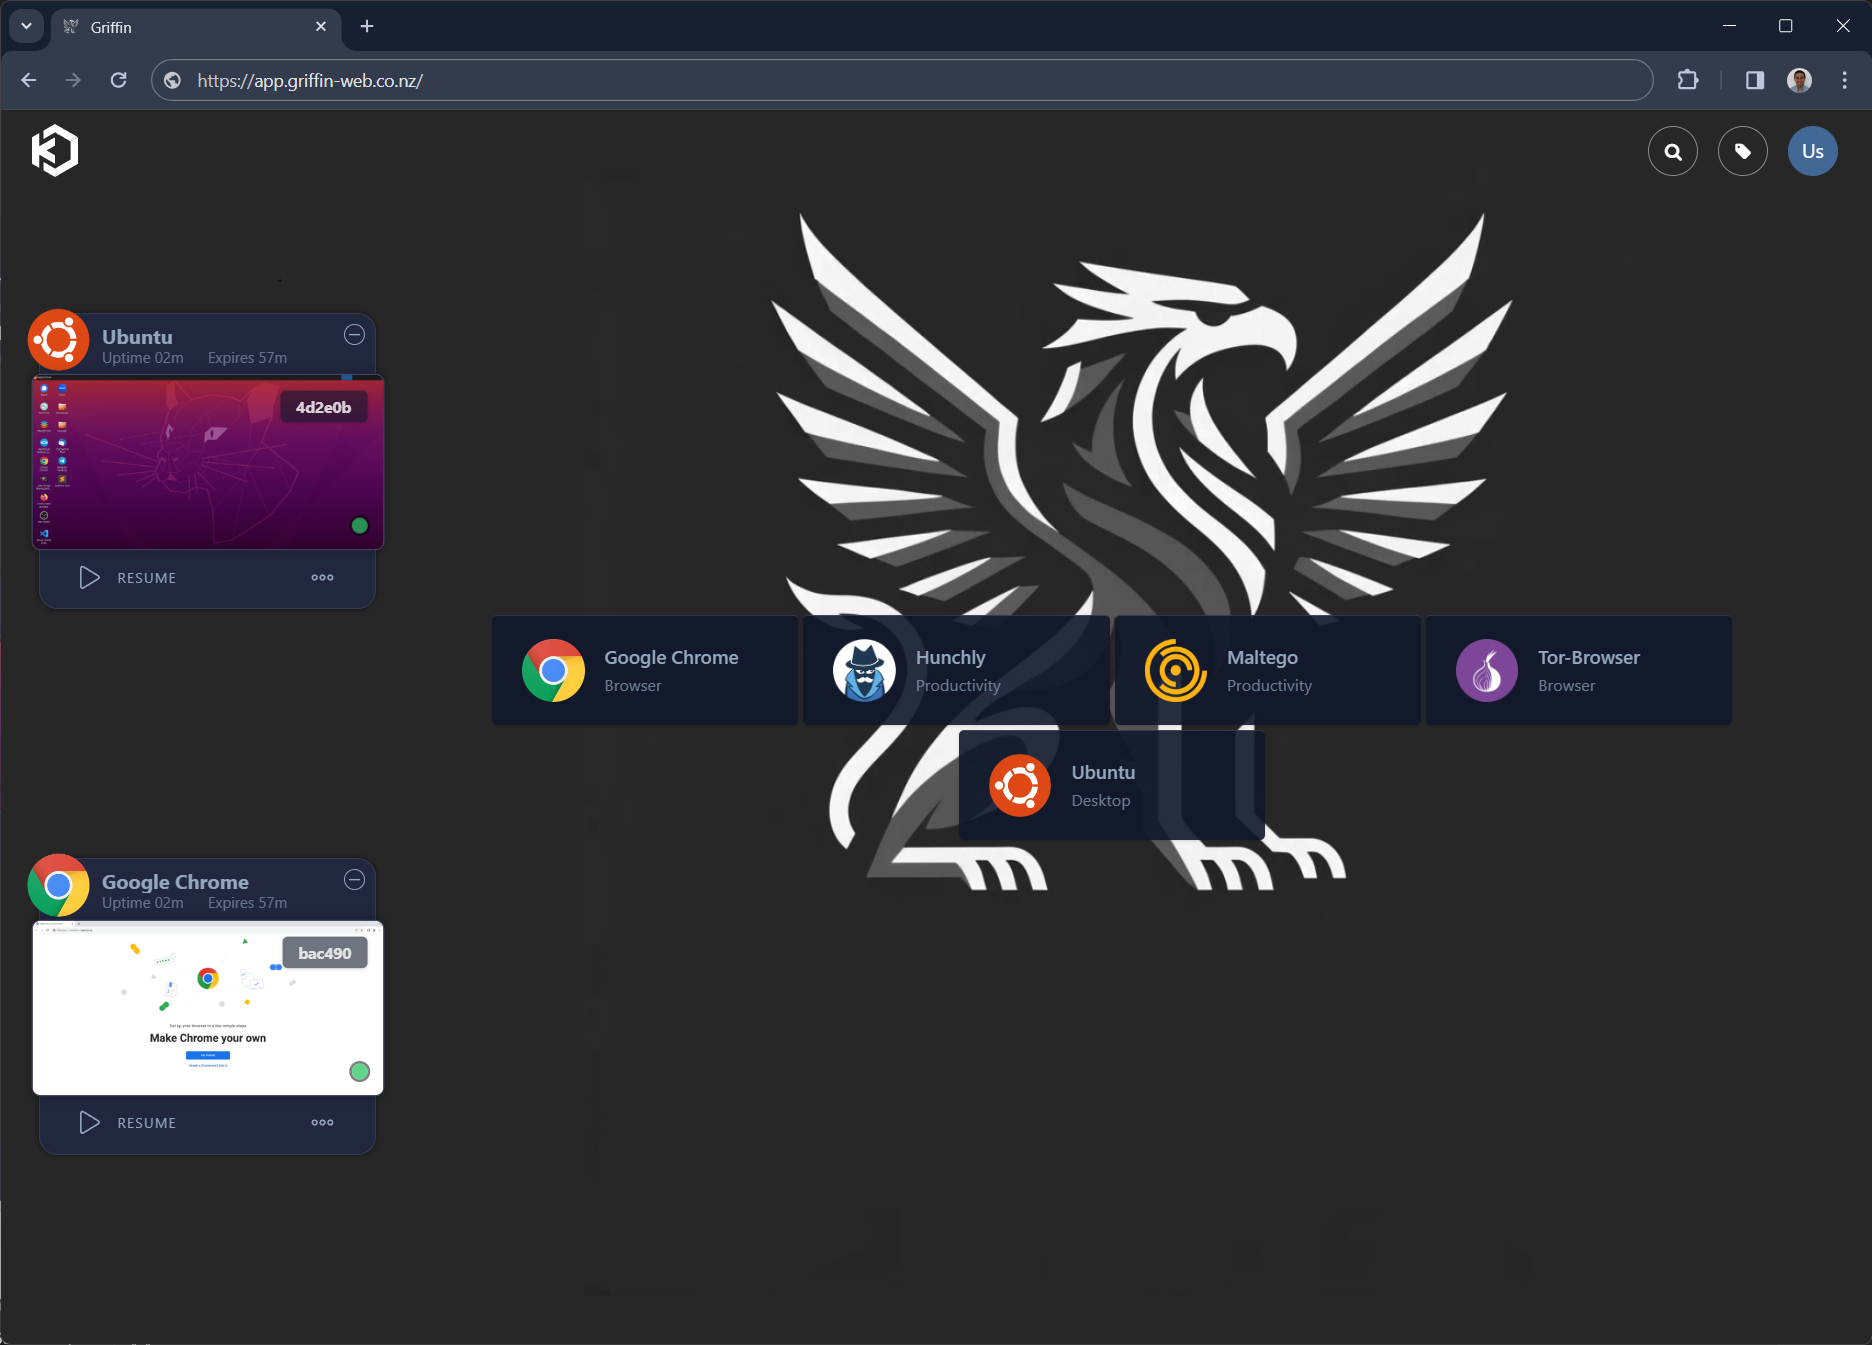
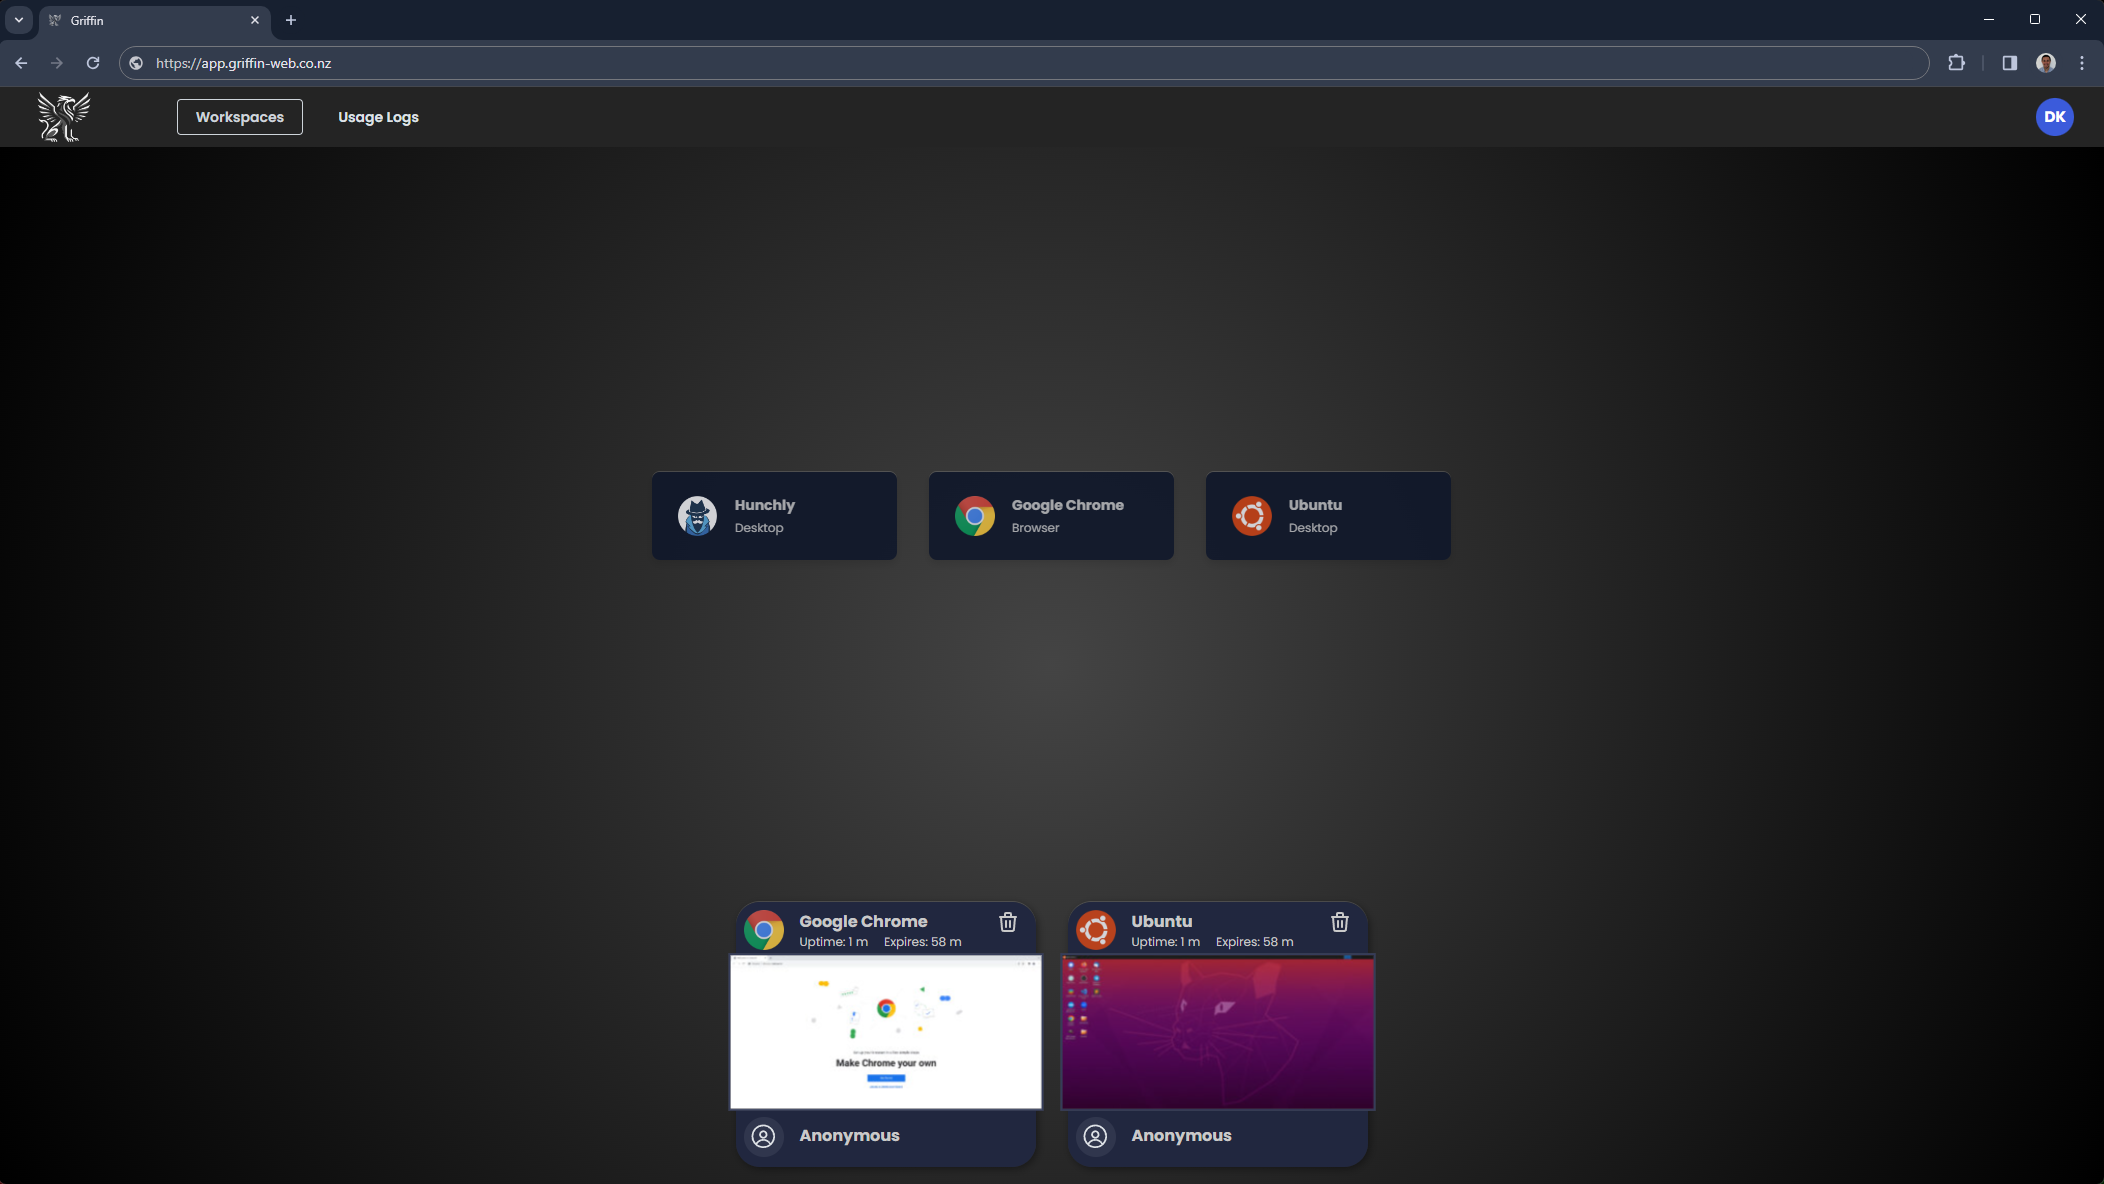
tag line change and update picture

diff --git a/docs/index.html b/docs/index.html
@@ -42,7 +42,7 @@
 							</li> 
 							-->
 							<li><a href="#six" class="scrolly">Contact Us</a></li>
-							<li><a href="#" class="button primary">Go to app</a></li>
+							<!-- <li><a href="#" class="button primary">Go to app</a></li> -->
 						</ul>
 					</nav>
 				</header>
@@ -53,7 +53,7 @@
 						<span class="image no-overlay"><img src="images/logo_dark_1024_transparent.png" alt="" /></span>
 						<header>
 							<h2>Griffin</h2>
-							<p>Your gateway to seamless OSINT capabilities<br /></p>
+							<p>Focus on the intelligence, not the setup.<br /></p>
 						</header>
 					</div>
 					<a href="#one" class="goto-next scrolly">Next</a>
@@ -61,7 +61,6 @@
 
 			<!-- One -->
 			<section id="one" class="spotlight style1 right">
-				<!-- TODO: Change this image to one of the actual Griffin UI -->
 				<span class="image fit main"><img src="images/pic01.png" alt="" /></span>
 				<div class="content">
 					<header>
